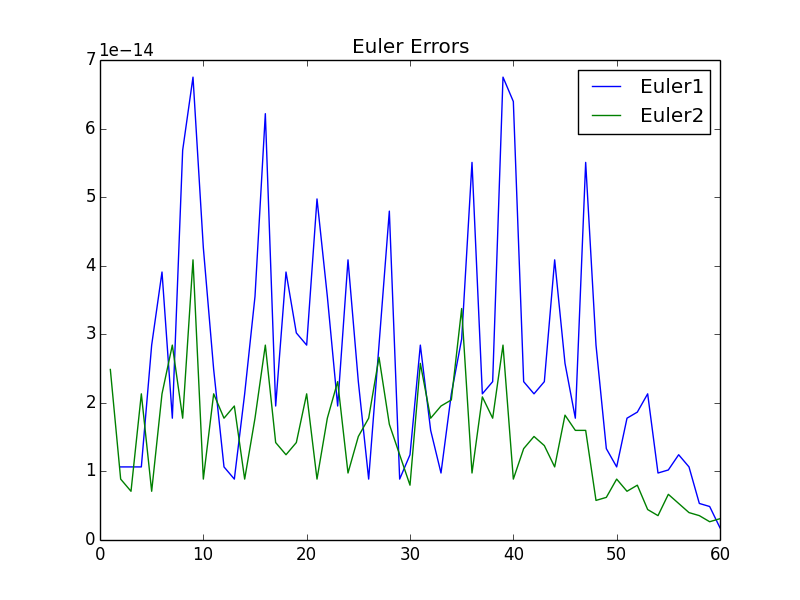
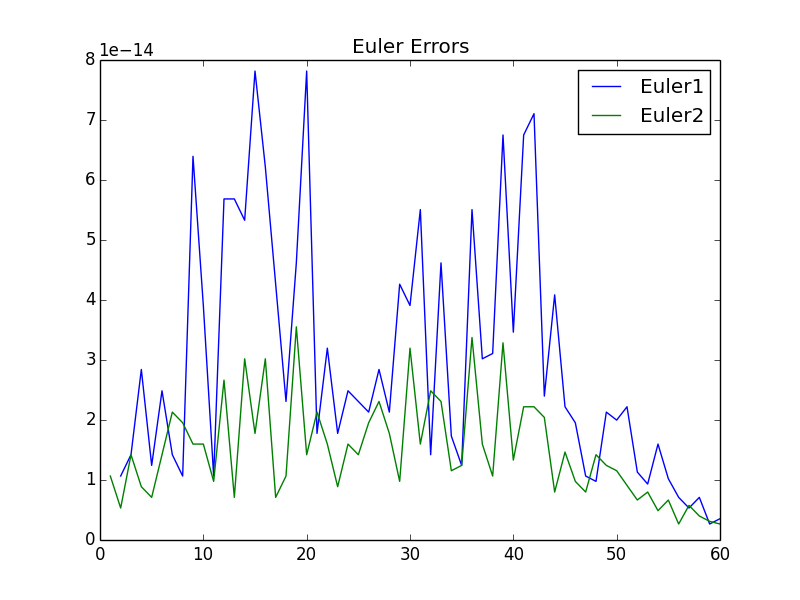
SS

diff --git a/Python/4_stationary/SS.py b/Python/4_stationary/SS.py
@@ -145,7 +145,7 @@ def get_N(omega):
     return N
 
 N = get_N(omega[-1, :, :])
-omega_hat = omega[-1, :, :] / N
+omega_SS = omega[-1, :, :]
 
 
 def get_Y(K_now, L_now):
@@ -155,7 +155,6 @@ def get_Y(K_now, L_now):
     Returns:    Aggregate output
     '''
     Y_now = A * (K_now ** alpha) * (np.exp(g_y_SS) * L_now ** (1 - alpha))
-    Y_now /= (np.exp(g_y_SS) ** (1-alpha))
     return Y_now
 
 
@@ -166,7 +165,6 @@ def get_w(Y_now, L_now):
     Returns:    Returns to labor
     '''
     w_now = (1 - alpha) * Y_now / L_now
-    w_now /= np.exp(g_y_SS)
     return w_now
 
 
@@ -186,8 +184,7 @@ def get_L(e, n):
 
     Returns:    Aggregate labor
     '''
-    L_now = np.sum(e * omega_hat * n)
-    # L_now /= N
+    L_now = np.sum(e * omega_SS * n)
     return L_now
 
 
@@ -254,8 +251,8 @@ def Steady_State(guesses):
 
     Returns:    Array of S-1 Euler equation errors
     '''
-    K_guess = guesses[0: (S-1) * J].reshape((S-1, J)) / np.exp(g_y_SS)
-    K = (omega_hat[1:, :] * K_guess).sum() #/ N
+    K_guess = guesses[0: (S-1) * J].reshape((S-1, J))
+    K = (omega_SS[1:, :] * K_guess).sum()
     L_guess = guesses[(S-1) * J:].reshape((S, J))
     L = get_L(e, L_guess)
     Y = get_Y(K, L)
@@ -297,7 +294,7 @@ def borrowing_constraints(K_dist, w, r, e, n):
     b_min = np.zeros((S-1, J))
     b_min[-1, :] = (ctilde - w * e[S-1, :] * n[S-1, :]) / (1 + r)
     for i in xrange(S-2):
-        b_min[-(i+2), :] = (ctilde + b_min[-(i+1), :] - w * e[
+        b_min[-(i+2), :] = (ctilde + np.exp(g_y_SS) * b_min[-(i+1), :] - w * e[
             -(i+2), :] * n[-(i+2), :]) / (1 + r)
     difference = K_dist - b_min
     if (difference < 0).any():
@@ -327,7 +324,7 @@ def constraint_checker(Kssmat, Lssmat, wss, rss, e, cssmat):
     '''
     print 'Checking constraints on capital, labor, and consumption.'
     flag1 = False
-    if Kssmat.sum() <= 0:
+    if Kssmat.sum() / N <= 0:
         print '\tWARNING: Aggregate capital is less than or equal to zero.'
         flag1 = True
     if borrowing_constraints(Kssmat, wss, rss, e, Lssmat) is True:
@@ -365,17 +362,17 @@ seconds = runtime % 60
 print 'Finding the steady state took %.0f hours, %.0f minutes, and %.0f \
 seconds.' % (abs(hours - .5), abs(minutes - .5), seconds)
 
-Kssmat = solutions[0:(S-1) * J].reshape(S-1, J) / np.exp(g_y_SS)
+Kssmat = solutions[0:(S-1) * J].reshape(S-1, J)
 Kssmat2 = np.array(list(np.zeros(J).reshape(1, J)) + list(Kssmat))
 Kssmat3 = np.array(list(Kssmat) + list(np.zeros(J).reshape(1, J)))
 
 Kssvec = Kssmat.sum(1)
-Kss = (omega_hat[1:, :] * Kssmat).sum()# / N
+Kss = (omega_SS[1:, :] * Kssmat).sum() / N
 Kssavg = Kssvec.mean()
 Kssvec = np.array([0]+list(Kssvec))
 Lssmat = solutions[(S-1) * J:].reshape(S, J)
 Lssvec = Lssmat.sum(1)
-Lss = get_L(e, Lssmat)
+Lss = get_L(e, Lssmat) / N
 Lssavg = Lssvec.mean()
 Yss = get_Y(Kss, Lss)
 wss = get_w(Yss, Lss)
